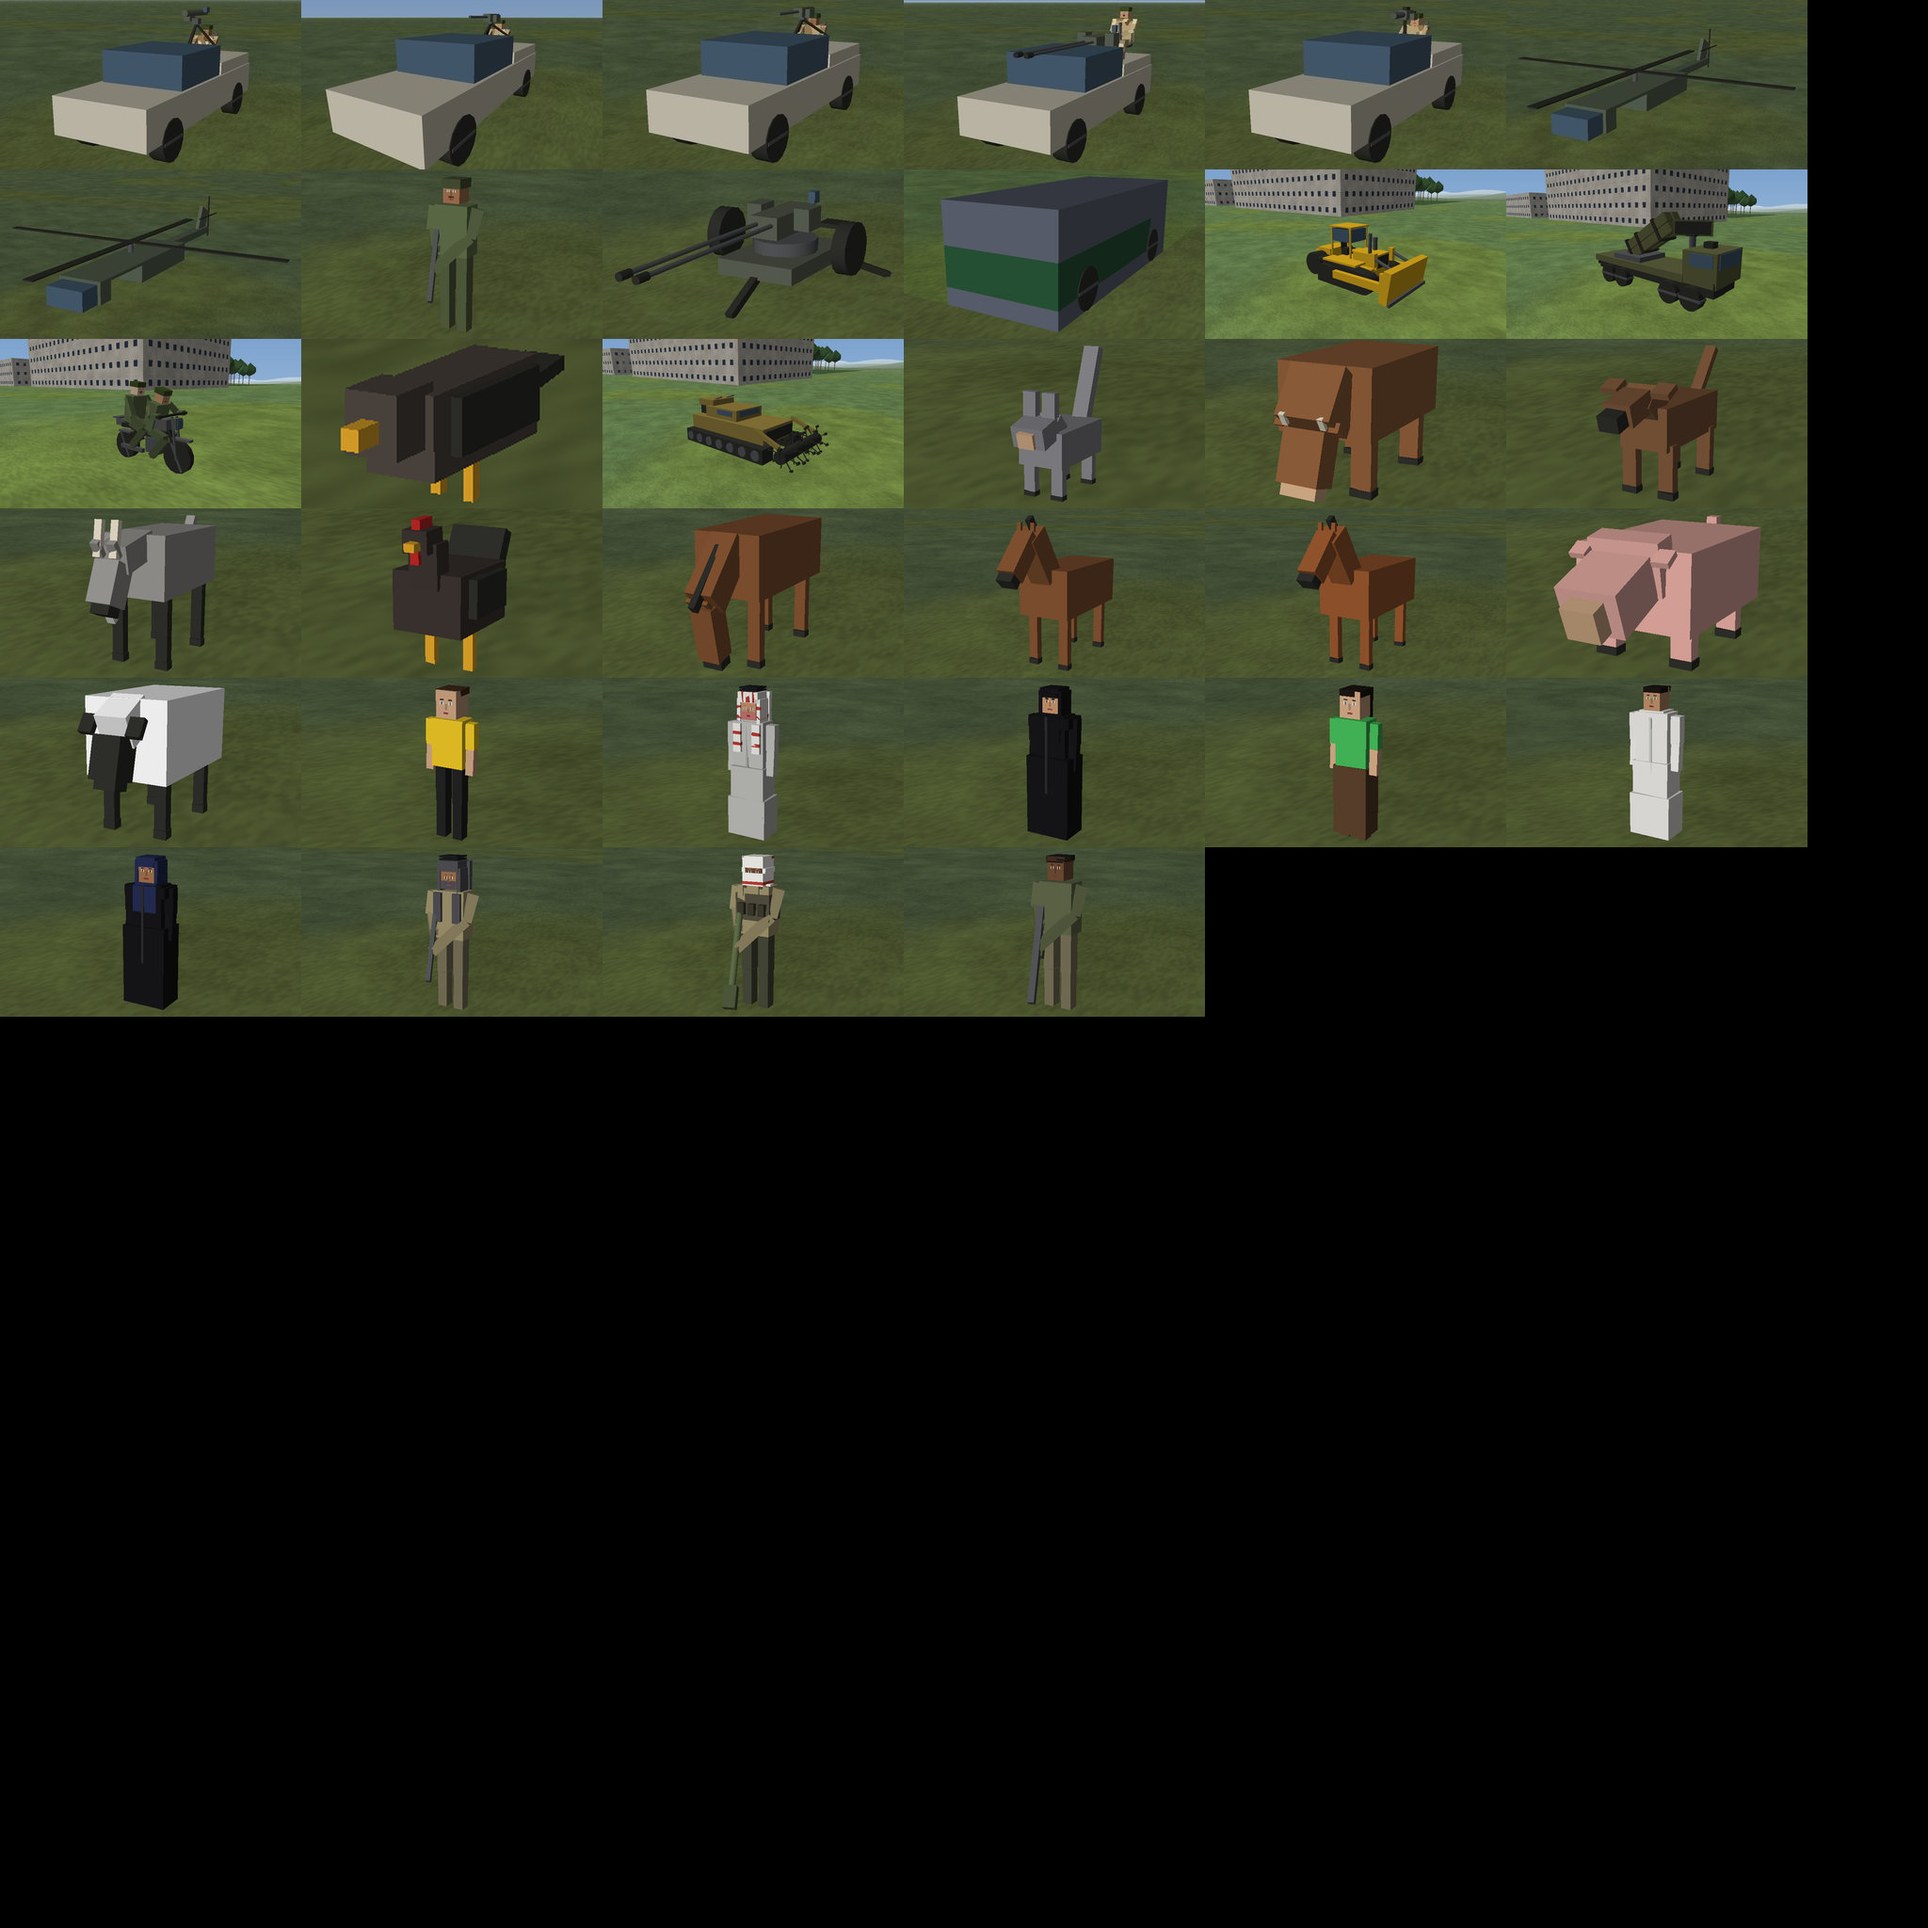
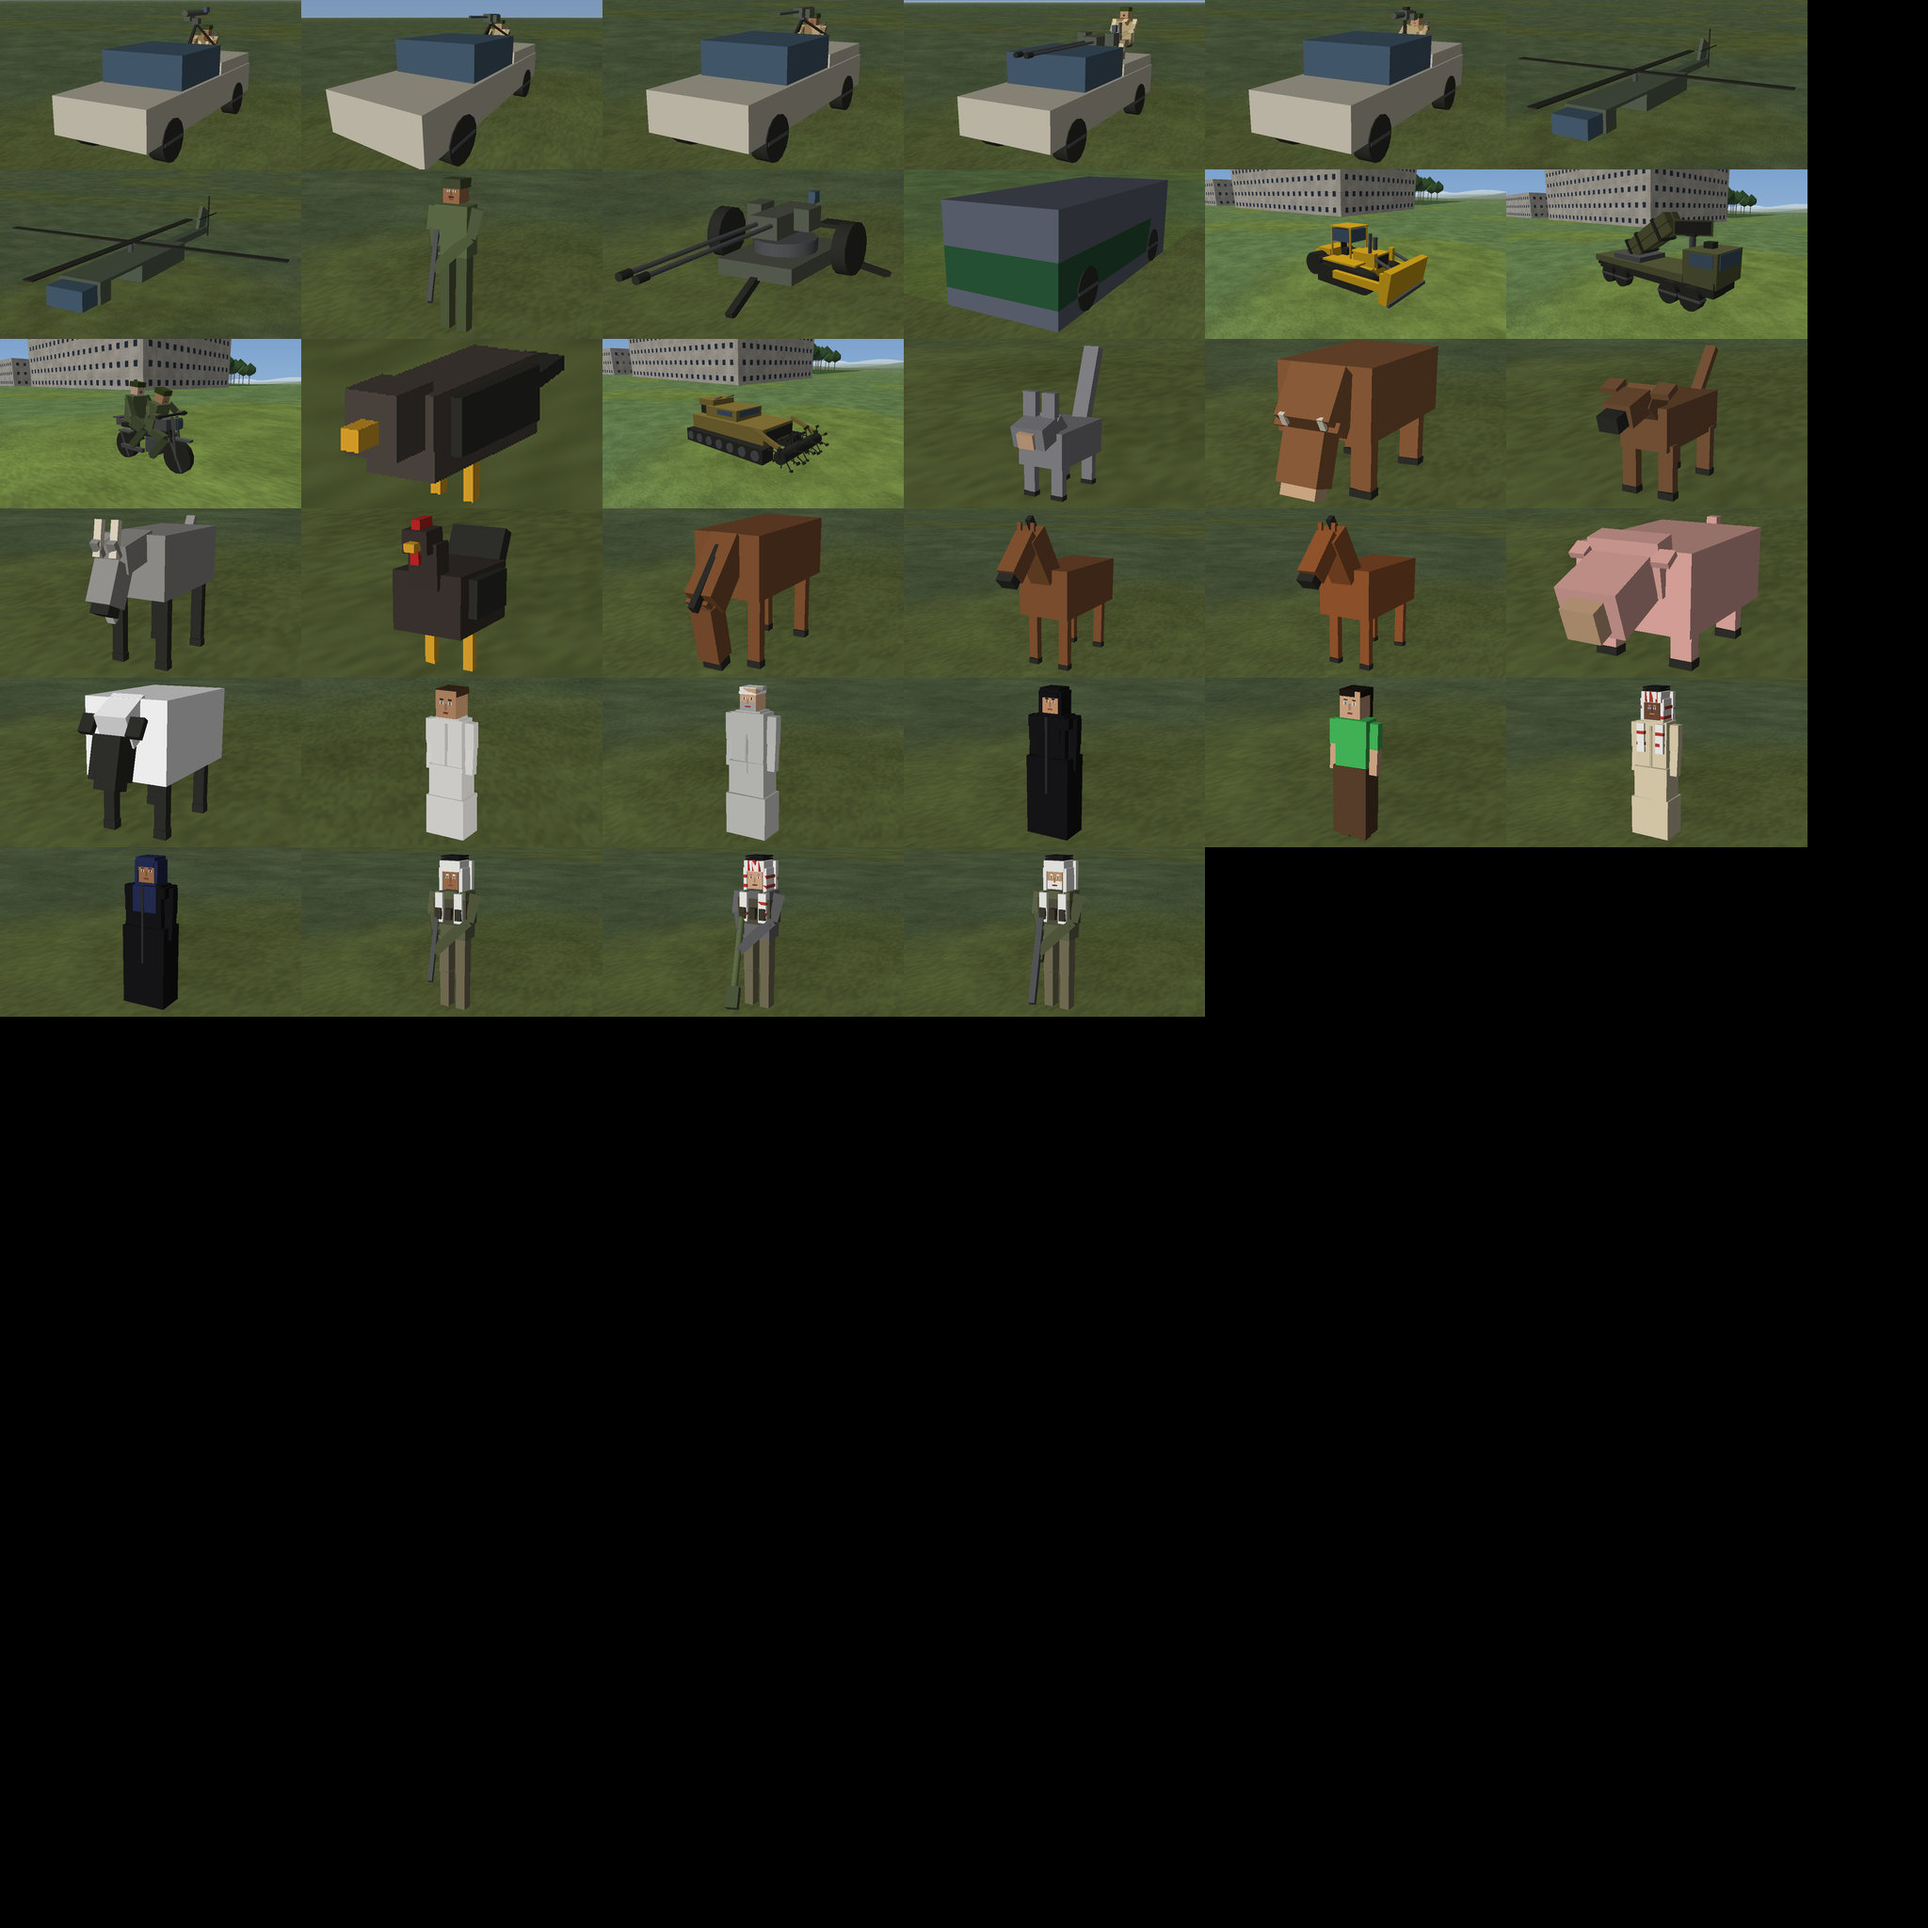
CE-4648: typical-dress thumbnails; fighters head cover 80 % / chest rig 75 % (OutfitCatalog, cross-lane), odds pinned over seeds 1-500
Claude-Session: https://claude.ai/code/session_018A6b3V2pAUU7h7gX44hUPF

diff --git a/Hrot/Engine/Hrot.Presentation.Tests/Map3D/PersonOutfitsRail.cs b/Hrot/Engine/Hrot.Presentation.Tests/Map3D/PersonOutfitsRail.cs
@@ -153,6 +153,54 @@ public sealed class PersonOutfitsRail
         Assert.Equal(3, DetailsOf(tkb, Index("facepaint")).Count);
     }
 
+    private static readonly long[] Fighters = [2003, 2010, 2011, 2012];
+
+    /// <summary>⭐ CE-4648 polish — the odds the user asked for, pinned over seeds 1–500 of the REAL catalogue: a Middle-East fighter wears head cover (shemagh, face wrap or skullcap)
+    /// in ≥ 75 % of seeds and a chest rig in ≥ 60 %; a boy often wears a small thobe. (Also writes the thumbnails' "typical" seed table when HROT_GEN_THUMB_SEEDS=1.)</summary>
+    [Fact]
+    public void TheFightersAreMostlyCoveredAndRigged_AndBoysOftenWearAThobe_OverSeeds1To500()
+    {
+        var tkb = HrotEnvironment.CreateTkb();
+        Outfit Of(long type, long seed) { var look = EntityBodyLayer3D.Resolve(tkb.GetByType(type)!); return Outfits.For(seed, type, look.Soldier, look.Child, null, ForceId.Hostile, look.Kit, look.Elderly, look.Sex, look.Wardrobe); }
+        foreach (long type in Fighters)
+        {
+            int covered = 0, rigged = 0;
+            for (int s = 1; s <= 500; s++)
+            {
+                var o = Of(type, s);
+                if (o.HeadKind is OutfitHead.Shemagh or OutfitHead.ShemaghFaceWrap or OutfitHead.Skullcap) covered++;
+                if (o.OverKind == OutfitOver.ChestRig) rigged++;
+            }
+            Assert.True(covered >= 375, $"type {type}: head cover in {covered}/500");
+            Assert.True(rigged >= 300, $"type {type}: a chest rig in {rigged}/500");
+        }
+        int thobes = 0;
+        for (int s = 1; s <= 500; s++) if (Of(1107, s).TopKind == OutfitTop.Robe) thobes++;
+        Assert.InRange(thobes, 150, 350);   // the boy's pool has a robe in 40 %
+
+        if (Environment.GetEnvironmentVariable("HROT_GEN_THUMB_SEEDS") == "1")
+        {
+            // the seeds (entity ids) whose outfit is the TYPICAL one: the thumbnails script respawns until the entity's id is in its type's list
+            bool Typical(long type, Outfit o) => type switch
+            {
+                1105 or 1109 => o.TopKind == OutfitTop.Robe && o.HeadKind is OutfitHead.Shemagh or OutfitHead.Skullcap && o.Face.Beard != BeardKind.None,
+                1107 => o.TopKind == OutfitTop.Robe,
+                _ => o.HeadKind is OutfitHead.Shemagh or OutfitHead.ShemaghFaceWrap && o.OverKind == OutfitOver.ChestRig,
+            };
+            var json = new System.Text.StringBuilder("{\n");
+            long[] types = [1105, 1107, 1109, 2003, 2010, 2011, 2012];
+            for (int k = 0; k < types.Length; k++)
+            {
+                var seeds = new List<long>();
+                for (long s = 1; s <= 6000; s++) if (Typical(types[k], Of(types[k], s))) seeds.Add(s);
+                json.Append($"  \"{types[k]}\": [{string.Join(", ", seeds)}]{(k + 1 < types.Length ? "," : "")}\n");
+            }
+            json.Append("}\n");
+            var dir = new DirectoryInfo(AppContext.BaseDirectory); while (dir != null && !Directory.Exists(Path.Combine(dir.FullName, "scripts"))) dir = dir.Parent;
+            File.WriteAllText(Path.Combine(dir!.FullName, "scripts", "thumbnail-typical-seeds.json"), json.ToString());
+        }
+    }
+
     /// <summary>The OF-7 promise for the new garments: dressing and detailing 500 people in every garment allocates nothing once warm.</summary>
     [Fact]
     public void TheNewGarments_AllocateNothing_ForFiveHundredPeople()

diff --git a/scripts/thumbnails.py b/scripts/thumbnails.py
@@ -456,8 +456,34 @@ def type_table():
     return {int(r["tkbType"]): r["name"] for r in rows}
 
 
+def typical_seeds():
+    """⭐ CE-4648 — the entity ids (= the outfit seeds) whose dress is the TYPICAL one of a type (scripts/thumbnail-typical-seeds.json, written by
+    PersonOutfitsRail with HROT_GEN_THUMB_SEEDS=1): a thumbnail shows the usual look (a man in a thobe and shemagh, a fighter with head cover and a chest rig), not an arbitrary seed."""
+    path = os.path.join(HERE, "thumbnail-typical-seeds.json")
+    try:
+        return {int(k): set(v) for k, v in json.load(open(path)).items()}
+    except (OSError, ValueError):
+        return {}
+
+
+TYPICAL = typical_seeds()
+
+
 def spawn_one(tkb, origin):
-    """Spawn one entity of this type at origin and step until it exists; returns its net ids ([] when the request was never served)."""
+    """Spawn one entity of this type at origin and step until it exists; returns its net ids ([] when the request was never served).
+    ⭐ A type with a typical-seed list is respawned (the previous one deleted) until its id is on the list — at most 400 tries."""
+    wanted = TYPICAL.get(int(tkb))
+    for _ in range(400 if wanted else 1):
+        nids, why = _spawn_once(tkb, origin)
+        if not nids or not wanted or nids[0] in wanted:
+            return nids, why
+        for nid in nids:
+            udc.call("DELETE", f"/entities/{nid}")
+        wait_gone(nids)
+    return nids, why
+
+
+def _spawn_once(tkb, origin):
     before = {r["networkId"] for r in (body_of(udc.call("GET", "/entities")) or [])}
     r = udc.call("POST", "/entities/spawn", {"tkbType": tkb, "transform": {"position": {"x": origin[0], "y": origin[1], "z": origin[2]},
                                                                           "rotation": {"x": 0, "y": 0, "z": 0, "w": 1}}})
@@ -465,7 +491,8 @@ def spawn_one(tkb, origin):
         return None, "spawn: " + say(r)
     for _ in range(10):                                   # step until the request is served and the entity exists
         udc.call("POST", "/sim/step", {"count": 6})
-        nids = [x["networkId"] for x in (body_of(udc.call("GET", "/entities")) or []) if x["networkId"] not in before]
+        rows = [x for x in (body_of(udc.call("GET", "/entities")) or []) if x["networkId"] not in before]
+        nids = [x["networkId"] for x in rows]
         if nids:
             udc.call("POST", "/sim/step", {"count": 6})   # let it realise (its body, its size)
             return nids, ""

diff --git a/Hrot/Engine/Hrot.Core/Tkb/OutfitCatalog.cs b/Hrot/Engine/Hrot.Core/Tkb/OutfitCatalog.cs
@@ -212,11 +212,13 @@ namespace Hrot.Core.Tkb
             Top = S(O(nameof(OutfitTop.Shirt), 10f, Khaki), O(nameof(OutfitTop.Shirt), 10f, Olive), O(nameof(OutfitTop.Shirt), 10f, FieldGrey), O(nameof(OutfitTop.Shirt), 10f, FieldBlack),
                     O(nameof(OutfitTop.Jacket), 10f, Olive), O(nameof(OutfitTop.Jacket), 10f, Khaki), O(nameof(OutfitTop.Jacket), 10f, FieldGreen),
                     O(nameof(OutfitTop.Robe), 12f, White), O(nameof(OutfitTop.Robe), 10f, LightGrey), O(nameof(OutfitTop.Robe), 8f, Brown)),
-            Over = S(O(nameof(OutfitOver.ChestRig), 60f, Drab), O(nameof(OutfitOver.None), 40f)),
+            Over = S(O(nameof(OutfitOver.ChestRig), 75f, Drab), O(nameof(OutfitOver.None), 25f)),   // ⭐ CE-4648 polish: a rig in 75 % of fighters (was 60)
             Legs = S(O(nameof(OutfitLegs.Trousers), 100f, C(106, 100, 76), C(70, 72, 56), C(48, 48, 50), C(120, 112, 88))),
+            // ⭐ CE-4648 polish (user review): head cover — a shemagh (40), a face wrap (32) or a skullcap (8) — in 80 % of fighters, a cap in 8, bareheaded in 12
             Head = S(O(nameof(OutfitHead.Shemagh), 20f, RedWhiteCheck), O(nameof(OutfitHead.Shemagh), 12f, CapWhite), O(nameof(OutfitHead.Shemagh), 8f, ClothBlack),
-                     O(nameof(OutfitHead.ShemaghFaceWrap), 10f, Khaki), O(nameof(OutfitHead.ShemaghFaceWrap), 8f, Drab), O(nameof(OutfitHead.ShemaghFaceWrap), 7f, RedWhiteCheck),
-                     O(nameof(OutfitHead.Cap), 8f, CapOlive), O(nameof(OutfitHead.Cap), 7f, FieldBlack), O(nameof(OutfitHead.None), 20f)),
+                     O(nameof(OutfitHead.ShemaghFaceWrap), 14f, Khaki), O(nameof(OutfitHead.ShemaghFaceWrap), 10f, Drab), O(nameof(OutfitHead.ShemaghFaceWrap), 8f, RedWhiteCheck),
+                     O(nameof(OutfitHead.Skullcap), 8f, CapWhite),
+                     O(nameof(OutfitHead.Cap), 4f, CapOlive), O(nameof(OutfitHead.Cap), 4f, FieldBlack), O(nameof(OutfitHead.None), 12f)),
             Hair = S(Dark(nameof(OutfitHair.Short), 100f)),
             Beard = S(Dark(nameof(OutfitBeard.Beard), 70f), Dark(nameof(OutfitBeard.Moustache), 15f), Dark(nameof(OutfitBeard.None), 15f)),
         };
